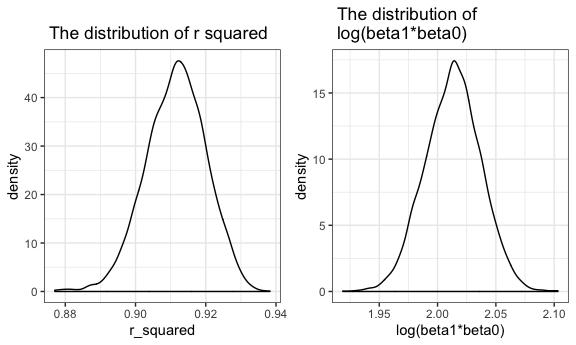
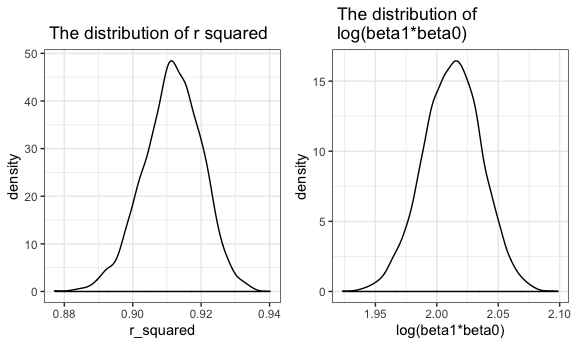
change

diff --git a/p8105_hw6_yl4358.md b/p8105_hw6_yl4358.md
@@ -57,7 +57,8 @@ day during pregnancy as predictor variables. Because baby’s birth weight
 is highly related with the mother’s health status, I choose `delwt` and
 `smoken` which represents mother’s health status during pregnancy.
 According to common sense, the taller the baby is , the heavier the baby
-is, thus I also choose `blength`.
+is, thus I also choose `blength`. And accoding to their p-value, the
+results are all significant. Therefore I build this model.
 
 ``` r
 birthweight_df %>% 
@@ -70,7 +71,7 @@ birthweight_df %>%
 <img src="p8105_hw6_yl4358_files/figure-gfm/unnamed-chunk-2-1.png" width="90%" />
 
 According to the plot, the residuals of this model have an average about
-0 and constant variance.
+0 and non constant variance. And there are some outliers.
 
 ``` r
 fit1 = lm(bwt ~ blength + gaweeks, data = birthweight_df)
@@ -97,7 +98,10 @@ cv_df %>%
     names_to = "model", 
     values_to = "rmse",
     names_prefix = "rmse_") %>% 
-  mutate(model = fct_inorder(model)) %>% 
+  mutate(
+    model = recode(model, "fit1" = "main effects", "fit2" = "interaction"),
+    model = fct_inorder(model)
+    ) %>% 
   ggplot(aes(x = model, y = rmse)) + geom_violin()
 ```
 
@@ -190,16 +194,16 @@ quantile(clean_df$r_squared,c(0.025,0.975))
 ```
 
     ##      2.5%     97.5% 
-    ## 0.8942877 0.9272458
+    ## 0.8937751 0.9272885
 
 ``` r
 quantile(clean_df$log_beta12,c(0.025,0.975))
 ```
 
     ##     2.5%    97.5% 
-    ## 1.966820 2.059444
+    ## 1.964858 2.058682
 
-The 95% confidence interval for r squared is (0.8942877, 0.9272458).
+The 95% confidence interval for r squared is (0.8937751, 0.9272885).
 
-The 95% confidence interval for log(beta1\*beta0) is (1.9668198,
-2.0594439).
+The 95% confidence interval for log(beta1\*beta0) is (1.9648581,
+2.0586824).
